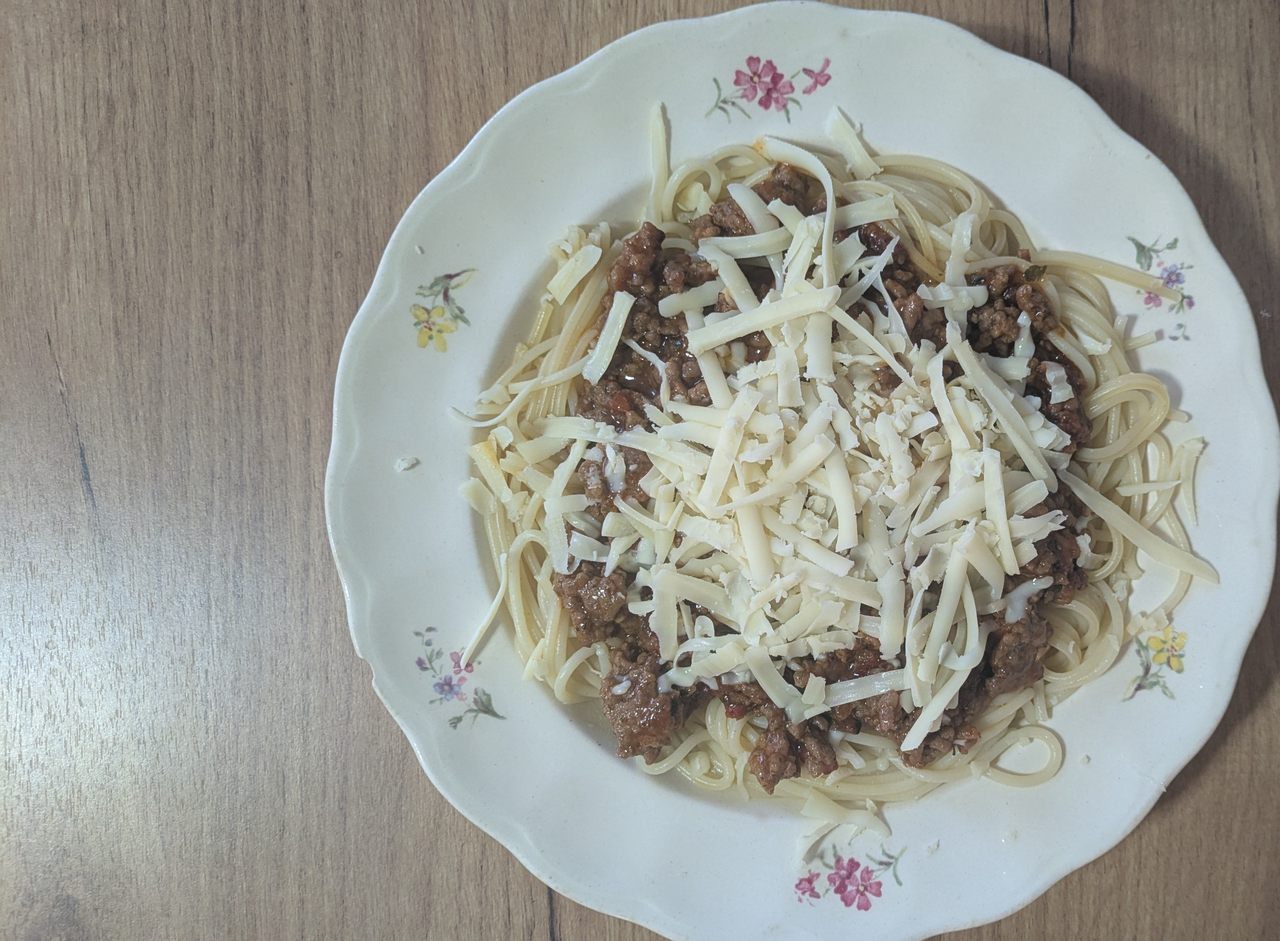
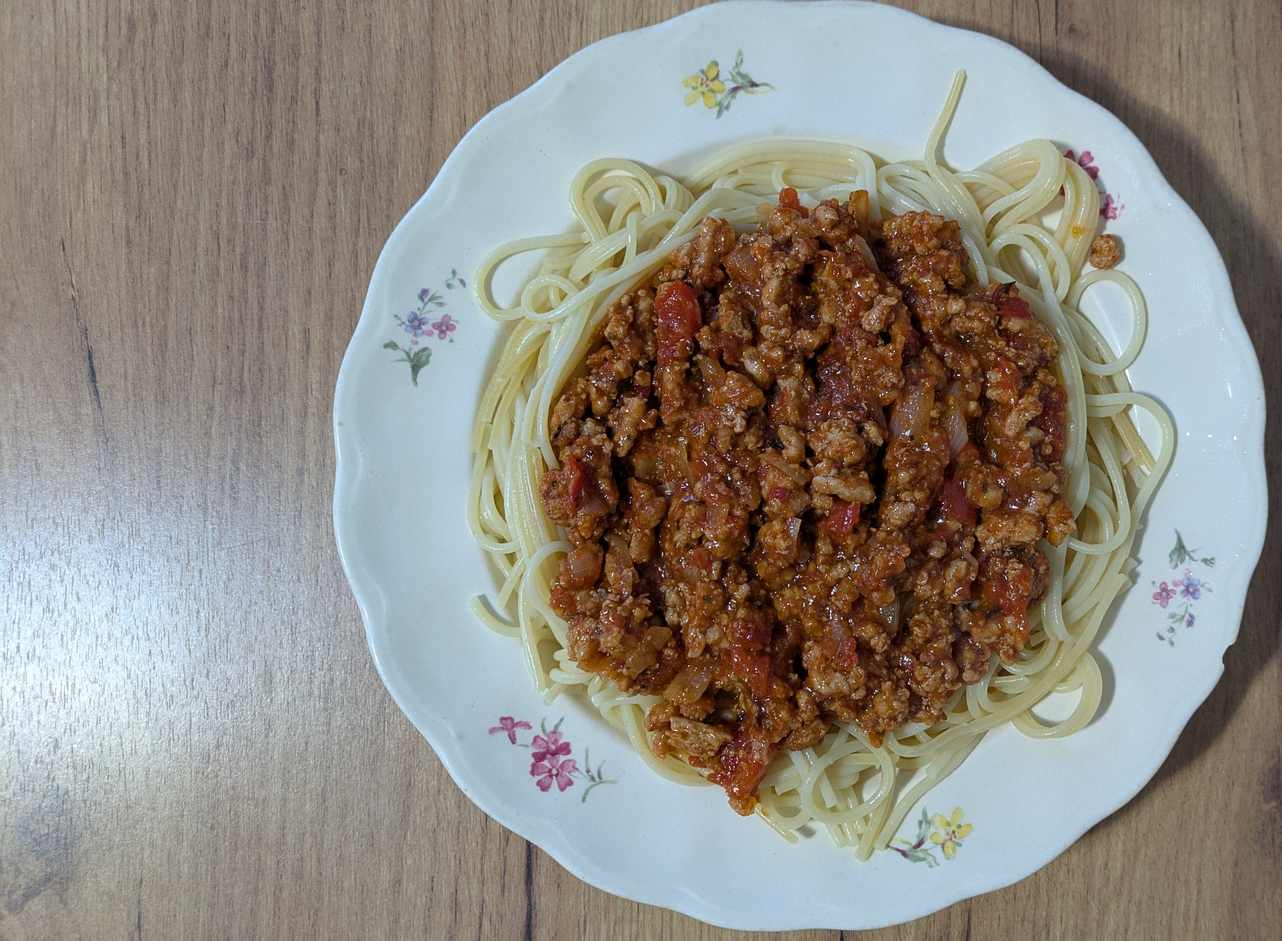
add-recipe

diff --git a/src/data/dinner/spaghetti-bolognese.ts b/src/data/dinner/spaghetti-bolognese.ts
@@ -1,18 +1,19 @@
-import { iDIR } from "../../ingredients/ingDairy";
 import { iFAT } from "../../ingredients/ingFat";
 import { iGRN } from "../../ingredients/ingGrain";
+import { iJAR } from "../../ingredients/ingJar";
 import { iMET } from "../../ingredients/ingMeat";
 import { iSPC } from "../../ingredients/ingSpice";
+import { iVEG } from "../../ingredients/ingVegetable";
 import type { Recipe } from "../../types";
 
 const portions = 3;
 const spaghettiBolognese: Recipe = {
   name: "Spaghetti Bolognese",
   description:
-    "Klasyczne spaghetti Bolognese z aromatycznym sosem mięsnym i startym żółtym serem - szybki i sycący obiad dla całej rodziny.",
+    "Klasyczne spaghetti bolognese z mięsem mielonym w aromatycznym sosie pomidorowym z dodatkiem czosnku, cebuli i ziół.",
   type: "dinner",
   images: ["spaghetti-bolognese.jpg"],
-  time: 30,
+  time: 60,
   portions: portions,
   executionDifficulty: 1,
   ingredients: [
@@ -20,10 +21,19 @@ const spaghettiBolognese: Recipe = {
       title: "",
       items: [
         { ingredient: iGRN.spaghetti_pasta, amount: portions * 100 },
-        { ingredient: iMET.ground_beef, amount: 400 },
-        { ingredient: iDIR.yellow_cheese, amount: portions * 50 },
-        { ingredient: iFAT.oil, amount: 2, unit: "lz" },
-        { ingredient: iSPC.knorr_bolognese_fix, amount: 1, unit: "opak" },
+        { ingredient: iMET.ground_beef, amount: 500 },
+        { ingredient: iMET.ground_pork, amount: 500, alt: true },
+        { ingredient: iJAR.tomato_passata, amount: 400 },
+        { ingredient: iJAR.canned_tomatoes, amount: 400, alt: true },
+        { ingredient: iVEG.onion, amount: 1, unit: "szt" },
+        { ingredient: iVEG.garlic, amount: 2, unit: "zbk" },
+        { ingredient: iFAT.olive, amount: 1, unit: "lz" },
+        { ingredient: iFAT.oil, amount: 1, unit: "lz", alt: true },
+        { ingredient: iSPC.basil },
+        { ingredient: iSPC.oregano },
+        { ingredient: iSPC.knorr_bolognese_fix },
+        { ingredient: iSPC.black_pepper },
+        { ingredient: iSPC.salt },
       ],
     },
   ],
@@ -31,16 +41,19 @@ const spaghettiBolognese: Recipe = {
     {
       title: "",
       steps: [
-        "Usmaż mięso mielone na patelni z olejem.",
-        "Wymieszaj przyprawę bolognese z wodą i wlej do mięsa.",
-        "Gotuj sos przez około 15 minut.",
-        "Ugotuj makaron spaghetti według instrukcji na opakowaniu.",
-        "Zetrzyj ser żółty na tarce.",
-        "Podawaj spaghetti z sosem i posyp startym serem.",
+        "Posiekaj cebulę i czosnek na drobną kostkę.",
+        "Rozgrzej oliwę na głębokiej patelni i dodaj mięso mielone.",
+        "Smaż mięso, aż stanie się lekko brązowe, rozbijając je na małe kawałki.",
+        "Dodaj cebulę i czosnek, smaż do zeszklenia i miękkości.",
+        "Dopraw solą, pieprzem oraz przyprawą do spaghetti.",
+        "Dodaj passatę pomidorową lub pomidory z puszki i dokładnie wymieszaj.",
+        "Gotuj sos na małym ogniu przez około 30 minut, aż zgęstnieje.",
+        "Ugotuj makaron spaghetti w osolonej wodzie według instrukcji (najlepiej al dente).",
+        "Podawaj makaron z sosem bolognese.",
       ],
     },
   ],
-  keyWords: ["makaron", "wołowina"],
+  keyWords: ["makaron"],
 };
 
 export default spaghettiBolognese;

diff --git a/src/data/dinner/spaghetti-bolognese-fix.ts b/src/data/dinner/spaghetti-bolognese-fix.ts
@@ -1,0 +1,46 @@
+import { iDIR } from "../../ingredients/ingDairy";
+import { iFAT } from "../../ingredients/ingFat";
+import { iGRN } from "../../ingredients/ingGrain";
+import { iMET } from "../../ingredients/ingMeat";
+import { iSPC } from "../../ingredients/ingSpice";
+import type { Recipe } from "../../types";
+
+const portions = 3;
+const spaghettiBologneseFix: Recipe = {
+  name: "Spaghetti Bolognese (Fix)",
+  description:
+    "Klasyczne spaghetti Bolognese z aromatycznym sosem mięsnym i startym żółtym serem - szybki i sycący obiad dla całej rodziny.",
+  type: "dinner",
+  images: ["spaghetti-bolognese-fix.jpg"],
+  time: 30,
+  portions: portions,
+  executionDifficulty: 1,
+  ingredients: [
+    {
+      title: "",
+      items: [
+        { ingredient: iGRN.spaghetti_pasta, amount: portions * 100 },
+        { ingredient: iMET.ground_beef, amount: 400 },
+        { ingredient: iDIR.yellow_cheese, amount: portions * 50 },
+        { ingredient: iFAT.oil, amount: 2, unit: "lz" },
+        { ingredient: iSPC.knorr_bolognese_fix, amount: 1, unit: "opak" },
+      ],
+    },
+  ],
+  steps: [
+    {
+      title: "",
+      steps: [
+        "Usmaż mięso mielone na patelni z olejem.",
+        "Wymieszaj przyprawę bolognese z wodą i wlej do mięsa.",
+        "Gotuj sos przez około 15 minut.",
+        "Ugotuj makaron spaghetti według instrukcji na opakowaniu.",
+        "Zetrzyj ser żółty na tarce.",
+        "Podawaj spaghetti z sosem i posyp startym serem.",
+      ],
+    },
+  ],
+  keyWords: ["makaron", "wołowina"],
+};
+
+export default spaghettiBologneseFix;

diff --git a/src/ingredients/ingSpice.ts b/src/ingredients/ingSpice.ts
@@ -39,8 +39,8 @@ type IngId =
   | "knorr_chinese_fix"
   | "knorr_bolognese_fix"
   | "knorr_crispy_chicken_fix"
-  | "fix_carbonara_knorr"
-  | "fix_napoli";
+  | "knorr_carbonara_fix"
+  | "knorr_napoli_fix";
 
 export const iSPC: Record<IngId, IngredientItem> = {
   //// SPICES ////
@@ -295,7 +295,7 @@ export const iSPC: Record<IngId, IngredientItem> = {
     verified: true,
   },
 
-  fix_carbonara_knorr: {
+  knorr_carbonara_fix: {
     name: "Fix Knorr spaghetti carbonara",
     type: "spc",
     color: "#FFFD8D",
@@ -307,7 +307,7 @@ export const iSPC: Record<IngId, IngredientItem> = {
     verified: true,
   },
 
-  fix_napoli: {
+  knorr_napoli_fix: {
     name: "Fix Napoli",
     type: "spc",
     color: "#E53935",

diff --git a/src/ingredients/ingJAR.ts b/src/ingredients/ingJAR.ts
@@ -4,6 +4,7 @@ type IngId =
   //// PRESERVES ////
   | "tomato_puree"
   | "tomato_paste"
+  | "tomato_passata"
   | "pickled_cucumber"
   | "pickled_cucumber_vinegar"
   | "sauerkraut"
@@ -73,6 +74,17 @@ export const iJAR: Record<IngId, IngredientItem> = {
       lzi: 5,
     },
     nutrientsPer100g: [0.3, 18, 4],
+  },
+
+  tomato_passata: {
+    name: "Passata pomidorowa",
+    type: "jar",
+    color: "#D94C3A",
+    kcalPer100g: 33,
+    unitWeights: {
+      opak: 400,
+    },
+    nutrientsPer100g: [0.2, 5.6, 1.5],
   },
 
   pickled_cucumber: {

diff --git a/src/data/dinner/spaghetti-carbonara-fix.ts b/src/data/dinner/spaghetti-carbonara-fix.ts
@@ -24,7 +24,7 @@ const spaghettiCarbonaraFix: Recipe = {
         { ingredient: iMET.bacon_block, amount: 150 },
         { ingredient: iDIR.cream_18, amount: 100, unit: "ml" },
         { ingredient: iOTH.water, amount: 200, unit: "ml" },
-        { ingredient: iSPC.fix_carbonara_knorr, amount: 1, unit: "opak" },
+        { ingredient: iSPC.knorr_carbonara_fix, amount: 1, unit: "opak" },
         { ingredient: iSPC.salt },
       ],
     },

diff --git a/src/data/dinner/spaghetti-napoli.ts b/src/data/dinner/spaghetti-napoli.ts
@@ -25,7 +25,7 @@ const spaghettiNapoli: Recipe = {
         { ingredient: iFAT.oil, amount: 1, unit: "lz" },
         { ingredient: iJAR.tomato_paste, amount: 2, unit: "lzi" },
         { ingredient: iOTH.water, amount: 250, unit: "ml" },
-        { ingredient: iSPC.fix_napoli, amount: 1, unit: "opak" },
+        { ingredient: iSPC.knorr_napoli_fix, amount: 1, unit: "opak" },
         { ingredient: iSPC.salt },
       ],
     },

diff --git a/src/utils.ts b/src/utils.ts
@@ -15,7 +15,7 @@ import type {
   Recipe,
 } from "./types";
 
-export const DAILY_NUTRIENTS = [3213, 98, 441, 64]; // [kcal, fat, carbs, protein]
+export const DAILY_NUTRIENTS = [3213, 98, 441, 140]; // [kcal, fat, carbs, protein]
 
 export const ingredientCollections = [
   iDIR,
